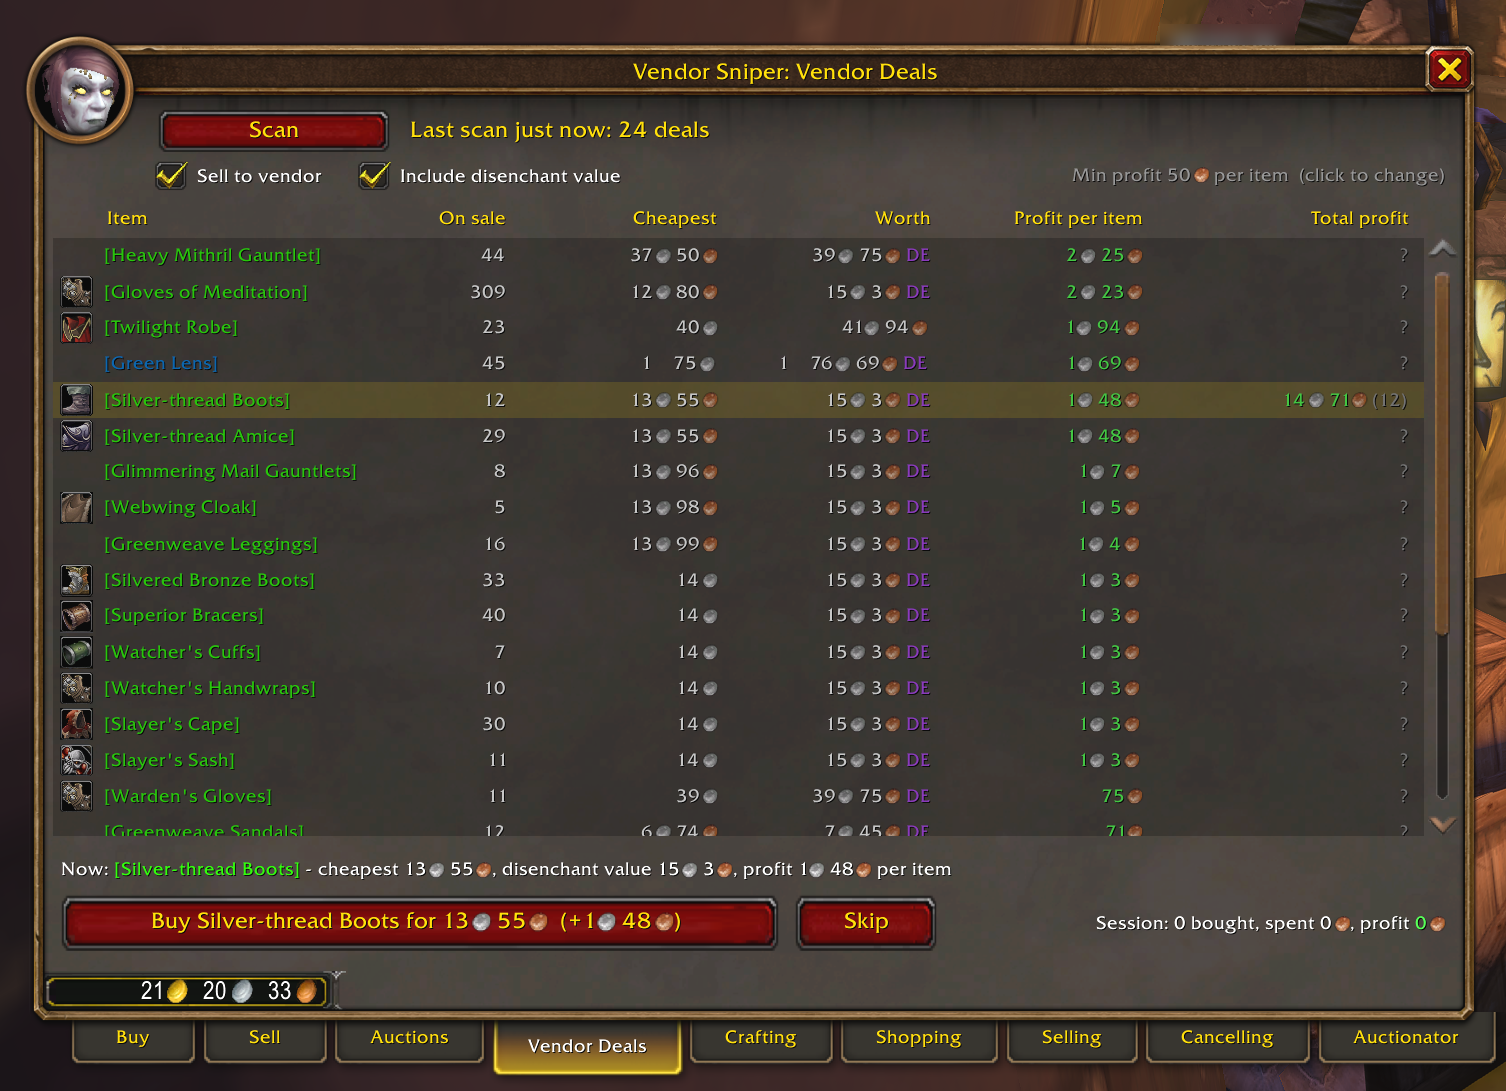
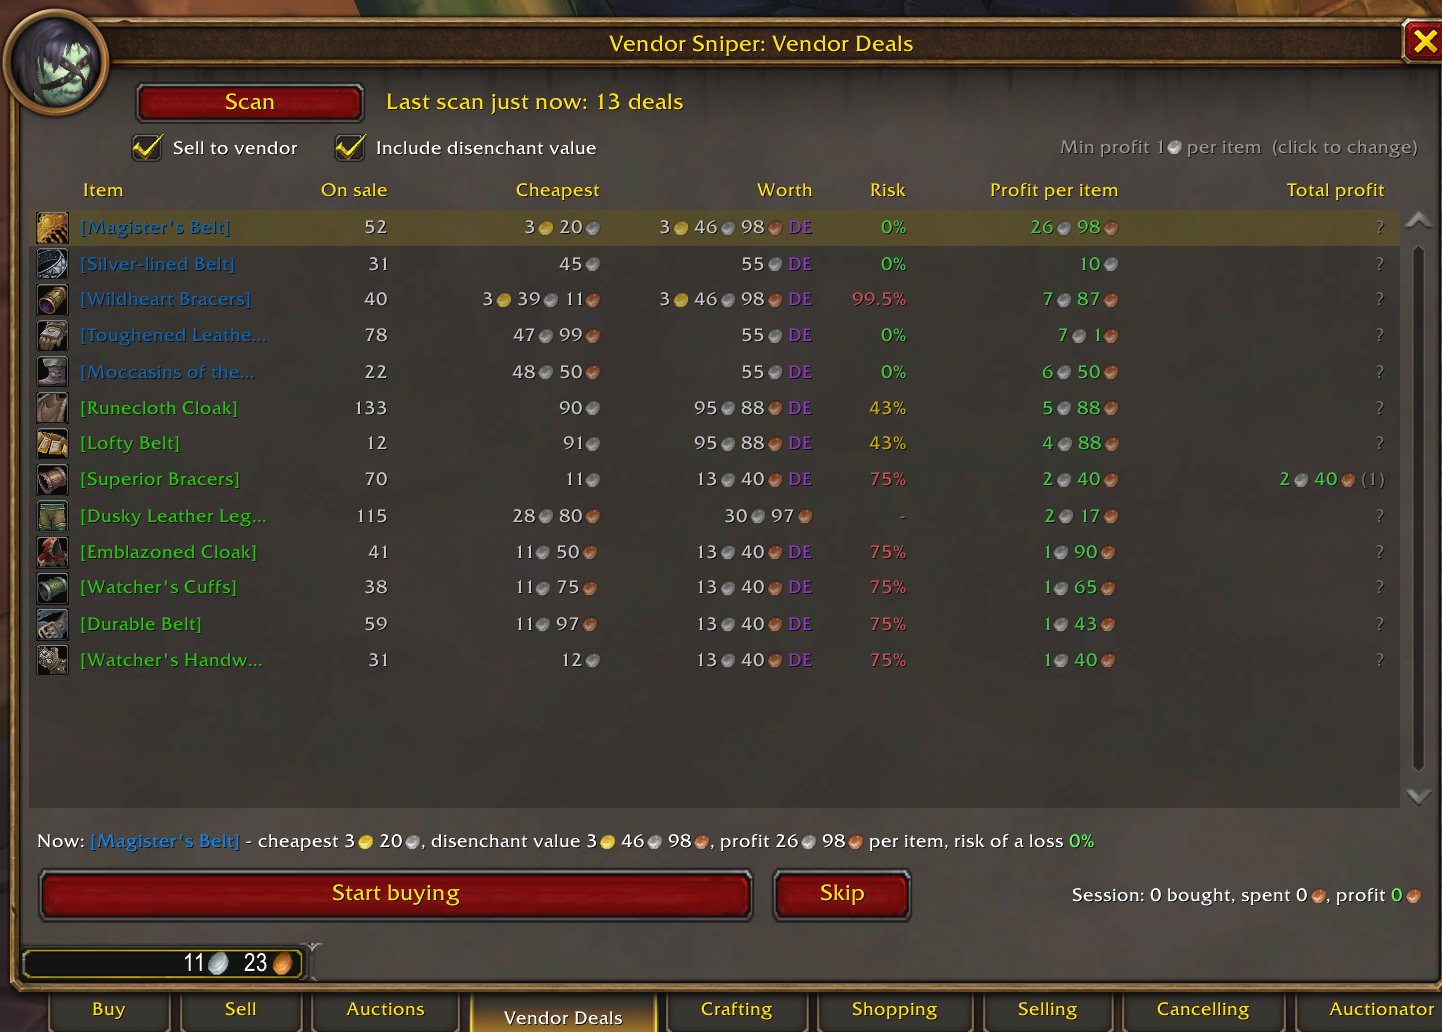
README: disenchant risk, new Vendor Deals screenshot

diff --git a/README.md b/README.md
@@ -8,12 +8,13 @@ An unofficial companion add-on for [Auctionator](https://www.curseforge.com/wow/
 
 A new tab in the auction house that lists every auction selling for less than a vendor will pay for it.
 
-![The Vendor Deals tab after a scan](media/screenshots/vendor-deals.png)
+![The Vendor Deals tab after a scan, with the disenchant risk of each deal](media/screenshots/vendor-deals.png)
 
 - **Scan** runs a quick summary scan of the whole auction house. It's Auctionator's own scan, so Auctionator's prices update at the same time, and scans started from Auctionator's button fill this list too.
 - Deals are sorted by profit, with how much each item earns and the total for every unit on sale.
 - **Buy** buys the selected deal. It checks the live price again first, so you never pay more than the item is worth. The game allows one purchase per click.
 - **Include disenchant value**: gear also counts as a deal when its disenchant materials are worth more than its price (shown as "DE").
+- **Disenchant risk**: most gear disenchants into dust most of the time, and the rarer essences and shards make up its average value. The **Risk** column shows how often disenchanting one item is worth less than you paid. Hover a deal to see every possible result and the risk when you buy several, which evens out the luck. Set a **max risk** to skip the gambles.
 - **Sell to vendor**: what you buy is sold automatically the next time you talk to a merchant. Only the units you bought are sold, never copies you already had.
 - Set a minimum profit per item (click it on the tab) and an optional spending cap per session.
 
